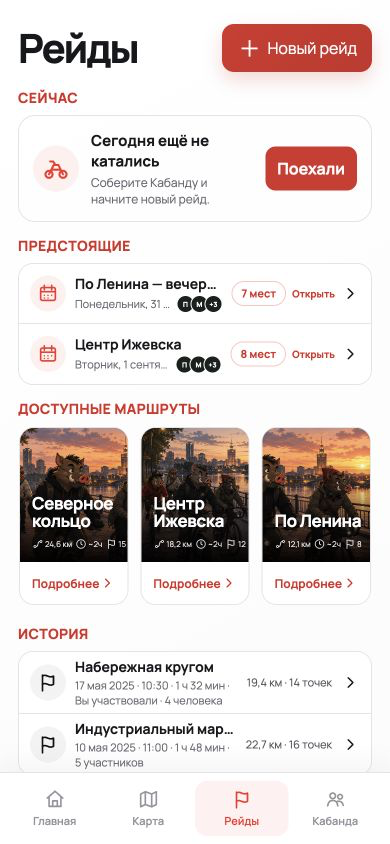
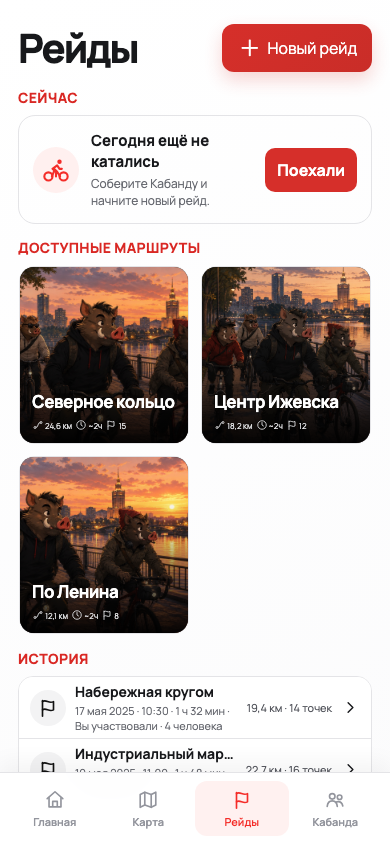
test: refresh raids visual evidence

diff --git a/e2e/raids-design.spec.ts b/e2e/raids-design.spec.ts
@@ -28,11 +28,13 @@ test('raids hub wraps routes into two columns and only shows joined upcoming rai
     expect(layout.boxes[2]!.y).toBeGreaterThanOrEqual(layout.boxes[0]!.bottom)
     expect(Math.abs(layout.boxes[2]!.x - layout.boxes[0]!.x)).toBeLessThanOrEqual(1)
     expect(documentWidth(layout.boxes)).toBeLessThanOrEqual(viewport.width)
+    expect(await page.evaluate(() => document.documentElement.scrollWidth)).toBeLessThanOrEqual(viewport.width)
   }
 
   await page.setViewportSize({ width: 390, height: 844 })
   await page.goto('/prototype/raids?capture=1&variant=upcoming-cases')
   await expect(page.getByRole('heading', { name: 'Предстоящие' })).toBeVisible()
+  await expect(page.locator('section[aria-labelledby="upcoming-heading"] .rdp-row')).toHaveCount(2)
   await expect(page.getByText('Вы едете', { exact: true })).toHaveCount(2)
 
   const newRaidButton = page.getByRole('button', { name: /Новый рейд/ })

diff --git a/docs/design/RAIDS_PROTOTYPE_EVIDENCE.md b/docs/design/RAIDS_PROTOTYPE_EVIDENCE.md
@@ -30,7 +30,7 @@
 - `docs/design/evidence/raids-state-loading-390x844.png`, `raids-state-empty-390x844.png` и `raids-state-upcoming-empty-390x844.png` — skeleton и empty;
 - `docs/design/evidence/raids-state-catalog-error-390x844.png` — изолированная ошибка каталога;
 - `docs/design/evidence/raids-state-offline-390x844.png` и `raids-state-fallback-390x844.png` — stale и отсутствующая обложка;
-- `docs/design/evidence/raids-upcoming-cases-390x844.png` — длинное имя, отсутствие подтверждений и доступный старт;
+- `docs/design/evidence/raids-upcoming-cases-390x844.png` — две предстоящие записи, на которые пользователь уже заявил участие;
 - `docs/design/evidence/raids-sheet-new-390x844.png` — chooser;
 - `docs/design/evidence/raids-preview-390x844.png`, `raids-preview-archived-390x844.png`, `raids-preview-partial-390x844.png` и `raids-preview-fallback-390x844.png` — normal/archived/partial/fallback preview;
 - `docs/design/evidence/raids-schedule-390x844.png` — планирование;
@@ -78,9 +78,11 @@ Keyboard smoke: focus trap цикличен, Escape закрывает chooser, 
 - `pnpm --filter @kabanda/pwa typecheck`
 - `pnpm --filter @kabanda/pwa test`
 - `pnpm --filter @kabanda/pwa build`
-- `pnpm exec playwright test e2e/raids-design.spec.ts --list`
+- `pnpm exec playwright test e2e/raids-design.spec.ts`
 
-Unit tests фиксируют допустимые query states, полноту карточек маршрутов, 20 участников и disabled member. Отдельный e2e-контракт проверяет 2×N layout на 320×568 и 390×844, отсутствие `Подробнее`, условный `Предстоящие`, 44×44 close target и возврат фокуса. После объединения с актуальной картой последний PWA-прогон: 32 файла, 111 тестов — passed. Полный `pnpm check` также включает domain, API, stand и data-validation тесты.
+Unit tests фиксируют допустимые query states, полноту карточек маршрутов, 20 участников и disabled member. Отдельный e2e-контракт проверяет 2×N layout на 320×568 и 390×844, отсутствие `Подробнее`, полный горизонтальный overflow страницы, условный `Предстоящие`, точное число записей пользователя, 44×44 close target и возврат фокуса. После объединения с актуальной картой последний PWA-прогон: 32 файла, 111 тестов — passed. Полный `pnpm check` также включает domain, API, stand и data-validation тесты.
+
+Полный GitHub Actions run [33446308864](https://github.com/motpavel/kabanda/actions/runs/33446308864) для SHA `158ccde651be0b1bfa584c7d62548519aa66354f` завершён успешно: `verify`, `postgres` и `e2e` — green; job `e2e` выполнил `pnpm test:e2e`, включая новый `raids-design.spec.ts`.
 
 Все финальные `*-390x844.png` имеют фактический размер 390×844 и PNG-кодирование; desktop evidence — 1440×900 PNG.
 
